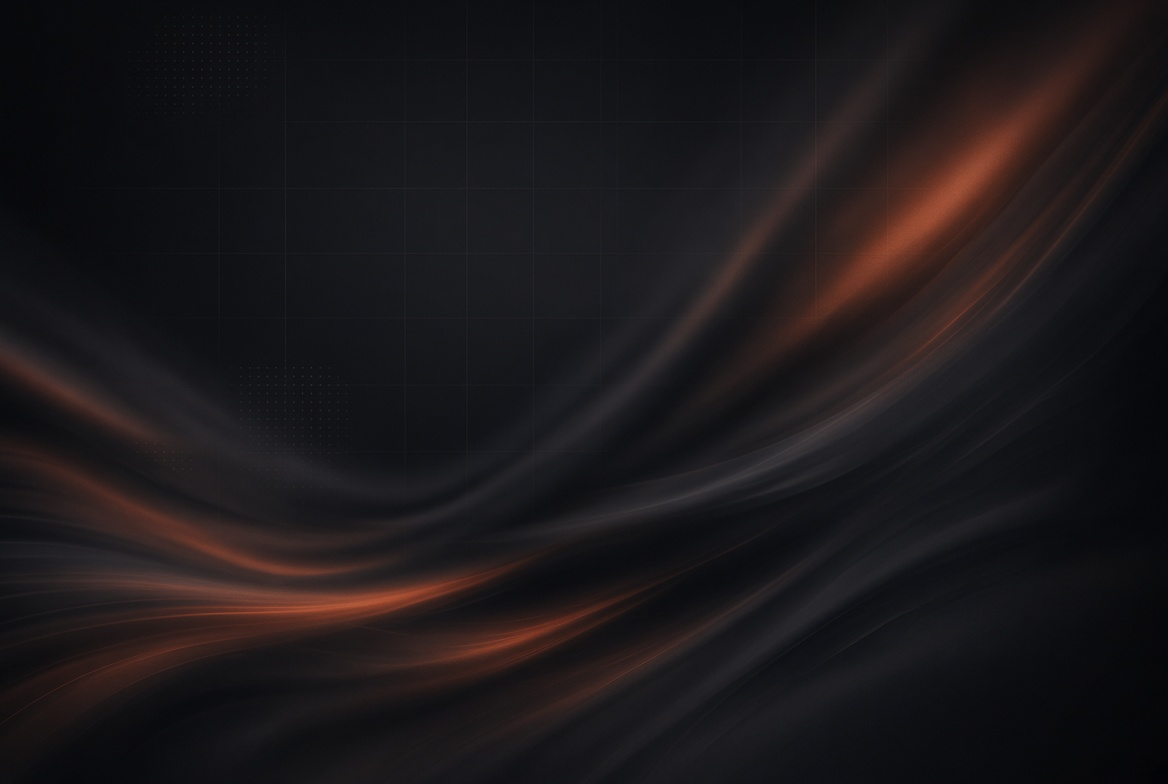
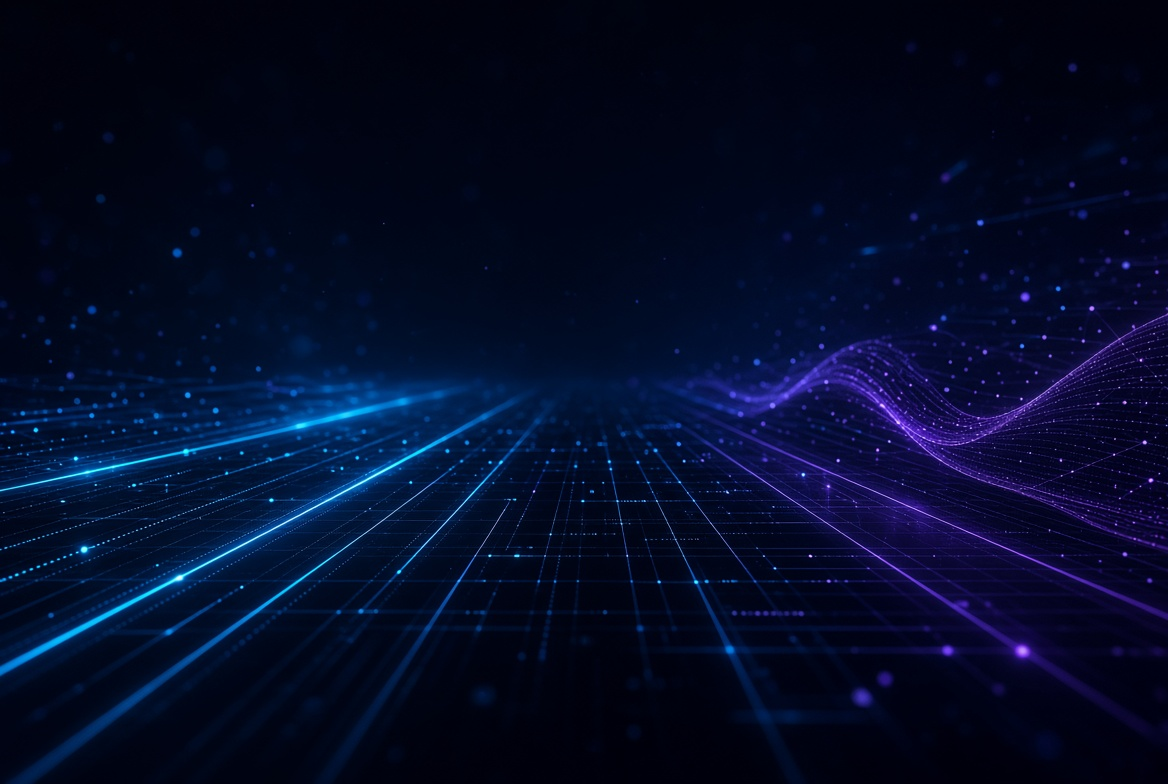
Add background image

diff --git a/index.html b/index.html
@@ -1,9 +1,10 @@
-<!DOCTYPE html>
+<!DOCTYPE html>
 <html lang="en">
 <head>
 <meta charset="UTF-8">
 <meta name="viewport" content="width=device-width, initial-scale=1.0">
-<title>GenCost</title>
+<title>AI Video Price Comparison 2026 – Runway vs Kling vs Luma vs HeyGen vs Higgsfield vs Pika (Real $ Cost) | GenCost</title>
+<meta name="description" content="Compare real dollar costs for AI video in 2026. See prices for Runway, Kling, Luma, Google Veo, Pika, Hailuo, Seedance and more. Updated regularly.">
 <style>
   @import url('https://fonts.googleapis.com/css2?family=Orbitron:wght@500;700&family=Inter:wght@400;500&display=swap');
   body {
@@ -133,20 +134,64 @@
     .card h2 { font-size: 1.3em; }
   }
 </style>
+<style>
+body {
+  background-image: url('Background.jpg');
+  background-size: cover;
+  background-position: center;
+  background-attachment: fixed;
+  background-repeat: no-repeat;
+}
+.overlay {
+  background: rgba(10, 10, 15, 0.75);
+}
+</style>
 </head>
 <body>
 <div class="overlay">
+  <div style="background:#1a1a2e; border:1px solid #00d4ff; border-radius:8px; padding:1rem; margin:1rem 0; color:#e0e0e0;">
+    <strong>Best value right now</strong><br>
+    Kling AI Standard ~$10/mo is currently one of the lowest entry prices. See the cards below for latest.<br>
+    <small>Last updated: 2026-10-25 06:36</small><br>
+    <small>Prices change often — always confirm inside the tool before generating.</small><br>
+    <small>Prices are checked regularly against official pages.</small>
+  </div>
+
   <h1>GENCOST</h1>
   <p class="subtitle">AI VIDEO PRICE COMPARISON</p>
-  <div class="timestamp">LAST UPDATED · 2026-10-23 21:36</div>
+  <div class="timestamp">LAST UPDATED · 2026-10-25 06:36</div>
   <div class="grid" id="content"></div>
+
+  <div style="margin-top:2rem; color:#e0e0e0;">
+    <strong>Free tiers available</strong><br>
+    HeyGen (3 videos), Runway (125 credits), Pika (limited free), Synthesia (500 credits) and others still offer free plans. See the cards above for details.
+  </div>
+
   <div class="footer">Created by Grok & Bitbooz · 22.10.2026</div>
   <div class="footer-sub">Prices update automatically · Always double-check before buying</div>
   <div class="contact">Contact: <a href="mailto:bitbooz@protonmail.com">bitbooz@protonmail.com</a></div>
+
+  <h2 style="margin-top:2rem;">FAQ</h2>
+  <details style="margin:0.5rem 0; color:#e0e0e0;">
+    <summary>What is the cheapest AI video tool right now?</summary>
+    <p>Check the list above — prices are updated regularly.</p>
+  </details>
+  <details style="margin:0.5rem 0; color:#e0e0e0;">
+    <summary>Why do these tools use credits?</summary>
+    <p>Credits hide the real cost. This page shows approximate dollar prices so you can compare.</p>
+  </details>
+  <details style="margin:0.5rem 0; color:#e0e0e0;">
+    <summary>Do higher resolution or audio cost more?</summary>
+    <p>Yes. Always check the exact settings in the tool.</p>
+  </details>
+  <details style="margin:0.5rem 0; color:#e0e0e0;">
+    <summary>How often is this updated?</summary>
+    <p>The page is updated regularly. See the timestamp above.</p>
+  </details>
 </div>
 
 <script>
-const allData = {"heygen-pricing.json": {"platform": "heygen", "plans": [{"name": "Free", "monthly_price_usd": 0, "credits_or_minutes": 3, "unit": "videos", "offer": "2 months free on yearly"}, {"name": "Creator", "monthly_price_usd": 29, "credits_or_minutes": 600, "unit": "credits", "offer": "2 months free on yearly"}, {"name": "Pro", "monthly_price_usd": 49, "credits_or_minutes": 1000, "unit": "credits", "offer": "2 months free on yearly"}]}, "higgsfield-pricing.json": {"platform": "Higgsfield", "plans": [{"name": "Starter", "monthly_price_usd": 19, "credits_or_minutes": 270, "unit": "credits"}, {"name": "Plus", "monthly_price_usd": 59, "credits_or_minutes": 1200, "unit": "credits"}, {"name": "Ultra", "monthly_price_usd": 129, "credits_or_minutes": 3000, "unit": "credits"}]}, "runway-pricing.json": {"platform": "runway", "plans": [{"name": "Free", "monthly_price_usd": 0, "credits_or_minutes": 125, "unit": "credits", "offer": "125 one-time credits"}, {"name": "Standard", "monthly_price_usd": 12, "credits_or_minutes": 625, "unit": "credits", "offer": "Save $36/year"}, {"name": "Pro", "monthly_price_usd": 28, "credits_or_minutes": 2250, "unit": "credits", "offer": "Save $84/year"}, {"name": "Max", "monthly_price_usd": 76, "credits_or_minutes": 9500, "unit": "credits", "offer": "Save $228/year"}]}, "kling-pricing.json": {"platform": "Kling AI", "plans": [{"name": "Standard", "monthly_price_usd": 10, "credits_or_minutes": 660, "unit": "credits"}, {"name": "Pro", "monthly_price_usd": 37, "credits_or_minutes": 3000, "unit": "credits"}, {"name": "Premier", "monthly_price_usd": 92, "credits_or_minutes": 8000, "unit": "credits"}]}, "synthesia-pricing.json": {"platform": "synthesia", "plans": [{"name": "Basic", "monthly_price_usd": 0, "credits_or_minutes": 500, "unit": "credits", "offer": ""}, {"name": "Starter", "monthly_price_usd": 29, "credits_or_minutes": 1250, "unit": "credits", "offer": "Save up to 4 months with yearly"}, {"name": "Pro", "monthly_price_usd": 89, "credits_or_minutes": 6000, "unit": "credits", "offer": "Save up to 4 months with yearly"}]}, "pika-pricing.json": {"platform": "pika", "plans": [{"name": "Free", "monthly_price_usd": 0, "credits_or_minutes": 0, "unit": "credits", "offer": "Save 20% on yearly"}, {"name": "Starter", "monthly_price_usd": 10, "credits_or_minutes": 900, "unit": "credits", "offer": "Save 20% on yearly"}, {"name": "Creator", "monthly_price_usd": 35, "credits_or_minutes": 3150, "unit": "credits", "offer": "Save 20% on yearly"}, {"name": "Fancy", "monthly_price_usd": 95, "credits_or_minutes": 8550, "unit": "credits", "offer": "Save 20% on yearly"}]}, "luma-pricing.json": {"platform": "luma", "plans": [{"name": "Plus", "monthly_price_usd": 30, "credits_or_minutes": 10000, "unit": "credits", "offer": "Save up to 20% with yearly"}, {"name": "Pro", "monthly_price_usd": 90, "credits_or_minutes": 40000, "unit": "credits", "offer": "Save up to 20% with yearly"}, {"name": "Ultra", "monthly_price_usd": 300, "credits_or_minutes": 150000, "unit": "credits", "offer": "Save up to 20% with yearly"}]}, "viggle-pricing.json": {"platform": "viggle", "plans": [{"name": "Free", "monthly_price_usd": 0, "credits_or_minutes": 0, "unit": "credits", "offer": "5 free videos/day"}, {"name": "Pro", "monthly_price_usd": 7.99, "credits_or_minutes": 80, "unit": "credits", "offer": "20% off on yearly"}, {"name": "Live", "monthly_price_usd": 15.99, "credits_or_minutes": 200, "unit": "credits", "offer": "20% off on yearly"}, {"name": "Max", "monthly_price_usd": 63.99, "credits_or_minutes": 800, "unit": "credits", "offer": "20% off on yearly"}]}, "invideo-pricing.json": {"platform": "invideo", "plans": [{"name": "Starter", "monthly_price_usd": 10, "credits_or_minutes": 400, "unit": "credits", "offer": "50% off on annual, unlimited images for 30 days, extra discount after signup"}, {"name": "Plus", "monthly_price_usd": 30, "credits_or_minutes": 2000, "unit": "credits", "offer": "50% off on annual, unlimited images for 30 days, extra discount after signup"}, {"name": "Max", "monthly_price_usd": 75, "credits_or_minutes": 5000, "unit": "credits", "offer": "50% off on annual, unlimited images for 30 days, extra discount after signup"}]}, "capcut-pricing.json": {"platform": "capcut", "plans": [{"name": "Free", "monthly_price_usd": 0, "credits_or_minutes": 0, "unit": "credits", "offer": "up to 40% off"}, {"name": "Pro", "monthly_price_usd": 399, "credits_or_minutes": 1200, "unit": "credits", "offer": "2 months free on yearly, first month special on Seedance"}, {"name": "Ultra", "monthly_price_usd": 750, "credits_or_minutes": 8645, "unit": "credits", "offer": "up to 30% off yearly, first month special on Seedance"}]}, "ltx-pricing.json": {"platform": "ltx", "plans": [{"name": "Free", "monthly_price_usd": 0, "credits_or_minutes": 800, "unit": "credits", "offer": "800 credits one time"}, {"name": "Lite", "monthly_price_usd": 15, "credits_or_minutes": 8000, "unit": "credits", "offer": "Save 50% for Cyber Monday, 20% off yearly"}, {"name": "Standard", "monthly_price_usd": 35, "credits_or_minutes": 28000, "unit": "credits", "offer": "Save 50% for Cyber Monday, 28800 additional Computing Seconds per month for first 3 months"}, {"name": "Pro", "monthly_price_usd": 125, "credits_or_minutes": 110000, "unit": "credits", "offer": "Save 50% for Cyber Monday"}]}};
+const allData = {"heygen-pricing.json": {"platform": "heygen", "plans": [{"name": "Free", "monthly_price_usd": 0, "credits_or_minutes": 3, "unit": "videos"}, {"name": "Creator", "monthly_price_usd": 29, "credits_or_minutes": 600, "unit": "credits"}, {"name": "Pro", "monthly_price_usd": 49, "credits_or_minutes": 1000, "unit": "credits"}]}, "higgsfield-pricing.json": {"platform": "Higgsfield", "plans": [{"name": "Starter", "monthly_price_usd": 19, "credits_or_minutes": 270, "unit": "credits"}, {"name": "Plus", "monthly_price_usd": 59, "credits_or_minutes": 1200, "unit": "credits"}, {"name": "Ultra", "monthly_price_usd": 129, "credits_or_minutes": 3000, "unit": "credits"}]}, "runway-pricing.json": {"platform": "runway", "plans": [{"name": "Free", "monthly_price_usd": 0, "credits_or_minutes": 125, "unit": "credits"}, {"name": "Standard", "monthly_price_usd": 12, "credits_or_minutes": 625, "unit": "credits"}, {"name": "Pro", "monthly_price_usd": 28, "credits_or_minutes": 2250, "unit": "credits"}, {"name": "Max", "monthly_price_usd": 76, "credits_or_minutes": 9500, "unit": "credits"}]}, "kling-pricing.json": {"platform": "Kling AI", "plans": [{"name": "Standard", "monthly_price_usd": 10, "credits_or_minutes": 660, "unit": "credits"}, {"name": "Pro", "monthly_price_usd": 37, "credits_or_minutes": 3000, "unit": "credits"}, {"name": "Premier", "monthly_price_usd": 92, "credits_or_minutes": 8000, "unit": "credits"}]}, "synthesia-pricing.json": {"platform": "synthesia", "plans": [{"name": "Basic", "monthly_price_usd": 0, "credits_or_minutes": 500, "unit": "credits"}, {"name": "Starter", "monthly_price_usd": 29, "credits_or_minutes": 1250, "unit": "credits"}, {"name": "Pro", "monthly_price_usd": 89, "credits_or_minutes": 6000, "unit": "credits"}]}, "pika-pricing.json": {"platform": "pika", "plans": [{"name": "Free", "monthly_price_usd": 0, "credits_or_minutes": 0, "unit": "credits"}, {"name": "Starter", "monthly_price_usd": 10, "credits_or_minutes": 900, "unit": "credits"}, {"name": "Creator", "monthly_price_usd": 35, "credits_or_minutes": 3150, "unit": "credits"}, {"name": "Fancy", "monthly_price_usd": 95, "credits_or_minutes": 8550, "unit": "credits"}]}, "luma-pricing.json": {"platform": "luma", "plans": [{"name": "Plus", "monthly_price_usd": 30, "credits_or_minutes": 10000, "unit": "credits"}, {"name": "Pro", "monthly_price_usd": 90, "credits_or_minutes": 40000, "unit": "credits"}, {"name": "Ultra", "monthly_price_usd": 300, "credits_or_minutes": 150000, "unit": "credits"}]}, "viggle-pricing.json": {"platform": "viggle", "plans": [{"name": "Free", "monthly_price_usd": 0, "credits_or_minutes": 0, "unit": "credits"}, {"name": "Pro", "monthly_price_usd": 7.99, "credits_or_minutes": 80, "unit": "credits"}, {"name": "Live", "monthly_price_usd": 15.99, "credits_or_minutes": 200, "unit": "credits"}, {"name": "Max", "monthly_price_usd": 63.99, "credits_or_minutes": 800, "unit": "credits"}]}, "invideo-pricing.json": {"platform": "invideo", "plans": [{"name": "Starter", "monthly_price_usd": 10, "credits_or_minutes": 400, "unit": "credits"}, {"name": "Plus", "monthly_price_usd": 30, "credits_or_minutes": 2000, "unit": "credits"}, {"name": "Max", "monthly_price_usd": 75, "credits_or_minutes": 5000, "unit": "credits"}]}, "capcut-pricing.json": {"platform": "capcut", "plans": [{"name": "Free", "monthly_price_usd": 0, "credits_or_minutes": 0, "unit": "credits"}, {"name": "Pro", "monthly_price_usd": 399, "credits_or_minutes": 1200, "unit": "credits"}, {"name": "Ultra", "monthly_price_usd": 750, "credits_or_minutes": 8645, "unit": "credits"}]}, "ltx-pricing.json": {"platform": "ltx", "plans": [{"name": "Free", "monthly_price_usd": 0, "credits_or_minutes": 800, "unit": "credits"}, {"name": "Lite", "monthly_price_usd": 15, "credits_or_minutes": 8000, "unit": "credits"}, {"name": "Standard", "monthly_price_usd": 35, "credits_or_minutes": 28000, "unit": "credits"}, {"name": "Pro", "monthly_price_usd": 125, "credits_or_minutes": 110000, "unit": "credits"}]}, "hailuo-pricing.json": {"platform": "Hailuo AI", "plans": [{"name": "Standard", "monthly_price_usd": 10.5, "credits_or_minutes": 1000, "unit": "credits"}, {"name": "Pro", "monthly_price_usd": 30, "credits_or_minutes": 3500, "unit": "credits"}]}, "veo-pricing.json": {"platform": "Google Veo", "plans": [{"name": "Via Gemini", "monthly_price_usd": 0, "credits_or_minutes": 0, "unit": "usage-based"}, {"name": "API", "monthly_price_usd": 0, "credits_or_minutes": 0, "unit": "per second"}]}, "hedra-pricing.json": {"platform": "Hedra", "plans": [{"name": "Studio Basic", "monthly_price_usd": 20, "credits_or_minutes": 500, "unit": "credits"}, {"name": "Pro", "monthly_price_usd": 49, "credits_or_minutes": 1500, "unit": "credits"}]}, "sora-pricing.json": {"platform": "Sora", "plans": [{"name": "Via ChatGPT", "monthly_price_usd": 0, "credits_or_minutes": 0, "unit": "included"}, {"name": "Plus", "monthly_price_usd": 20, "credits_or_minutes": 0, "unit": "included"}]}, "vidu-pricing.json": {"platform": "Vidu", "plans": [{"name": "Starter", "monthly_price_usd": 10, "credits_or_minutes": 800, "unit": "credits"}, {"name": "Pro", "monthly_price_usd": 35, "credits_or_minutes": 4000, "unit": "credits"}]}, "krea-pricing.json": {"platform": "Krea", "plans": [{"name": "Basic", "monthly_price_usd": 5.25, "credits_or_minutes": 1000, "unit": "credits"}, {"name": "Pro", "monthly_price_usd": 30, "credits_or_minutes": 5000, "unit": "credits"}]}, "pixverse-pricing.json": {"platform": "PixVerse", "plans": [{"name": "Starter", "monthly_price_usd": 10, "credits_or_minutes": 800, "unit": "credits"}, {"name": "Pro", "monthly_price_usd": 30, "credits_or_minutes": 3000, "unit": "credits"}]}, "leonardo-pricing.json": {"platform": "Leonardo.ai", "plans": [{"name": "Apprentice", "monthly_price_usd": 12, "credits_or_minutes": 8500, "unit": "credits"}, {"name": "Artisan", "monthly_price_usd": 30, "credits_or_minutes": 25000, "unit": "credits"}]}, "stablevideo-pricing.json": {"platform": "Stable Video", "plans": [{"name": "Free", "monthly_price_usd": 0, "credits_or_minutes": 0, "unit": "credits"}, {"name": "Pro", "monthly_price_usd": 20, "credits_or_minutes": 1000, "unit": "credits"}]}, "minimax-pricing.json": {"platform": "MiniMax", "plans": [{"name": "Standard", "monthly_price_usd": 10, "credits_or_minutes": 1000, "unit": "credits"}, {"name": "Pro", "monthly_price_usd": 30, "credits_or_minutes": 3500, "unit": "credits"}]}, "opusclip-pricing.json": {"platform": "OpusClip", "plans": [{"name": "Starter", "monthly_price_usd": 15, "credits_or_minutes": 60, "unit": "credits"}, {"name": "Pro", "monthly_price_usd": 29, "credits_or_minutes": 200, "unit": "credits"}]}, "captions-pricing.json": {"platform": "Captions", "plans": [{"name": "Max", "monthly_price_usd": 24.99, "credits_or_minutes": 0, "unit": "credits"}, {"name": "Pro", "monthly_price_usd": 49, "credits_or_minutes": 0, "unit": "credits"}]}};
 
 function cleanName(name) {
   const n = (name || "").toLowerCase();
@@ -161,6 +206,18 @@ function cleanName(name) {
   if (n.includes("pika")) return "Pika";
   if (n.includes("luma")) return "Luma";
   if (n.includes("viggle")) return "Viggle";
+  if (n.includes("hailuo")) return "Hailuo AI";
+  if (n.includes("veo")) return "Google Veo";
+  if (n.includes("hedra")) return "Hedra";
+  if (n.includes("sora")) return "Sora";
+  if (n.includes("vidu")) return "Vidu";
+  if (n.includes("krea")) return "Krea";
+  if (n.includes("pixverse")) return "PixVerse";
+  if (n.includes("leonardo")) return "Leonardo.ai";
+  if (n.includes("stable")) return "Stable Video";
+  if (n.includes("minimax")) return "MiniMax";
+  if (n.includes("opus")) return "OpusClip";
+  if (n.includes("caption")) return "Captions";
   return name;
 }
 
@@ -176,7 +233,19 @@ function getPage(name) {
     "Viggle": "pages/viggle.html",
     "InVideo": "pages/invideo.html",
     "CapCut": "pages/capcut.html",
-    "LTX Studio": "pages/ltx.html"
+    "LTX Studio": "pages/ltx.html",
+    "Hailuo AI": "pages/hailuo.html",
+    "Google Veo": "pages/veo.html",
+    "Hedra": "pages/hedra.html",
+    "Sora": "pages/sora.html",
+    "Vidu": "pages/vidu.html",
+    "Krea": "pages/krea.html",
+    "PixVerse": "pages/pixverse.html",
+    "Leonardo.ai": "pages/leonardo.html",
+    "Stable Video": "pages/stablevideo.html",
+    "MiniMax": "pages/minimax.html",
+    "OpusClip": "pages/opusclip.html",
+    "Captions": "pages/captions.html"
   };
   return map[name] || "#";
 }
@@ -223,7 +292,7 @@ function createParticles(e) {
   setTimeout(() => { window.location.href = link.href; }, 280);
 }
 
-const order = ["HeyGen", "Higgsfield", "Runway", "Kling AI", "Synthesia", "Pika", "Luma", "Viggle", "InVideo", "CapCut", "LTX Studio"];
+const order = ["HeyGen", "Higgsfield", "Runway", "Kling AI", "Synthesia", "Pika", "Luma", "Viggle", "InVideo", "CapCut", "LTX Studio", "Hailuo AI", "Google Veo", "Hedra", "Sora", "Vidu", "Krea", "PixVerse", "Leonardo.ai", "Stable Video", "MiniMax", "OpusClip", "Captions"];
 const content = document.getElementById("content");
 
 const platforms = [];
